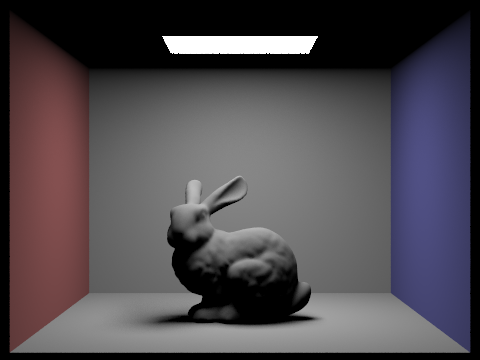
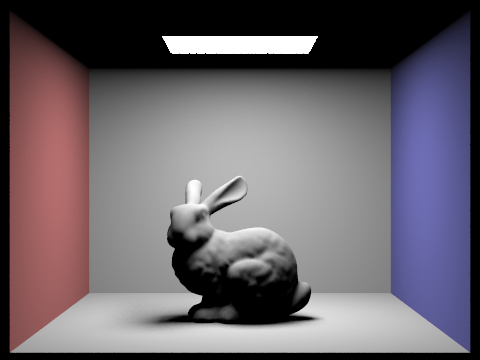
update after change bsdf

diff --git a/proj3-1/index.html b/proj3-1/index.html
@@ -215,7 +215,7 @@
                     We calculate the \(cos(\theta)\) taking the dot product of normal vector (0,0,1) and random sample direction. <br/> 
                     We then use the bvh's intersect method we defined in Part 2 to check if the ray intersects with a surface and store the intersection information if yes. If the ray intersects with an object, we check if that is a light source by calling
                     <code>ray_isect.bsdf->get_emission()</code>. If not, this sample would return a 0 lightning. If yes, we can then follow the MC estimator's formula to calculate one instance of the estimator. <br/>
-                    We get the BSDF transform vector of the in and out ray on the hitting point, by calling <code>isect.bsdf->f(out, in)</code>. We multiple this with the sample radiance and \(cos\theta\) we get in advance. And we divide this by the Sample
+                    We get the BSDF transform vector of the in and out ray on the hitting point, by calling <code>isect.bsdf->f(out, in)</code> (which is the material's relectance divided by \(\pi\)). We multiple this with the sample radiance and \(cos\theta\) we get in advance. And we divide this by the Sample
                     ray's possibility, which is \(\frac{1}{2\pi}\). We add this number to the total radiance.
                 </li>
                 <li>
@@ -298,21 +298,21 @@
                 <table style="width:100%">
                     <tr align="center">
                         <td>
-                            <img src="img/bunny_l1_p3.png" align="middle" width="200px" />
+                            <img src="img/bunny_l1_p3.png" align="middle" width="400px" />
                             <figcaption>1 Light Ray (CBbunny)</figcaption>
                         </td>
                         <td>
-                            <img src="img/bunny_l4_p3.png" align="middle" width="200px" />
+                            <img src="img/bunny_l4_p3.png" align="middle" width="400px" />
                             <figcaption>4 Light Rays (CBbunny)</figcaption>
                         </td>
                     </tr>
                     <tr align="center">
                         <td>
-                            <img src="img/bunny_l16_p3.png" align="middle" width="200px" />
+                            <img src="img/bunny_l16_p3.png" align="middle" width="400px" />
                             <figcaption>16 Light Rays (CBbunny)</figcaption>
                         </td>
                         <td>
-                            <img src="img/bunny_l64_p3.png" align="middle" width="200px" />
+                            <img src="img/bunny_l64_p3.png" align="middle" width="400px" />
                             <figcaption>64 Light Rays (CBbunny)</figcaption>
                         </td>
                     </tr>
